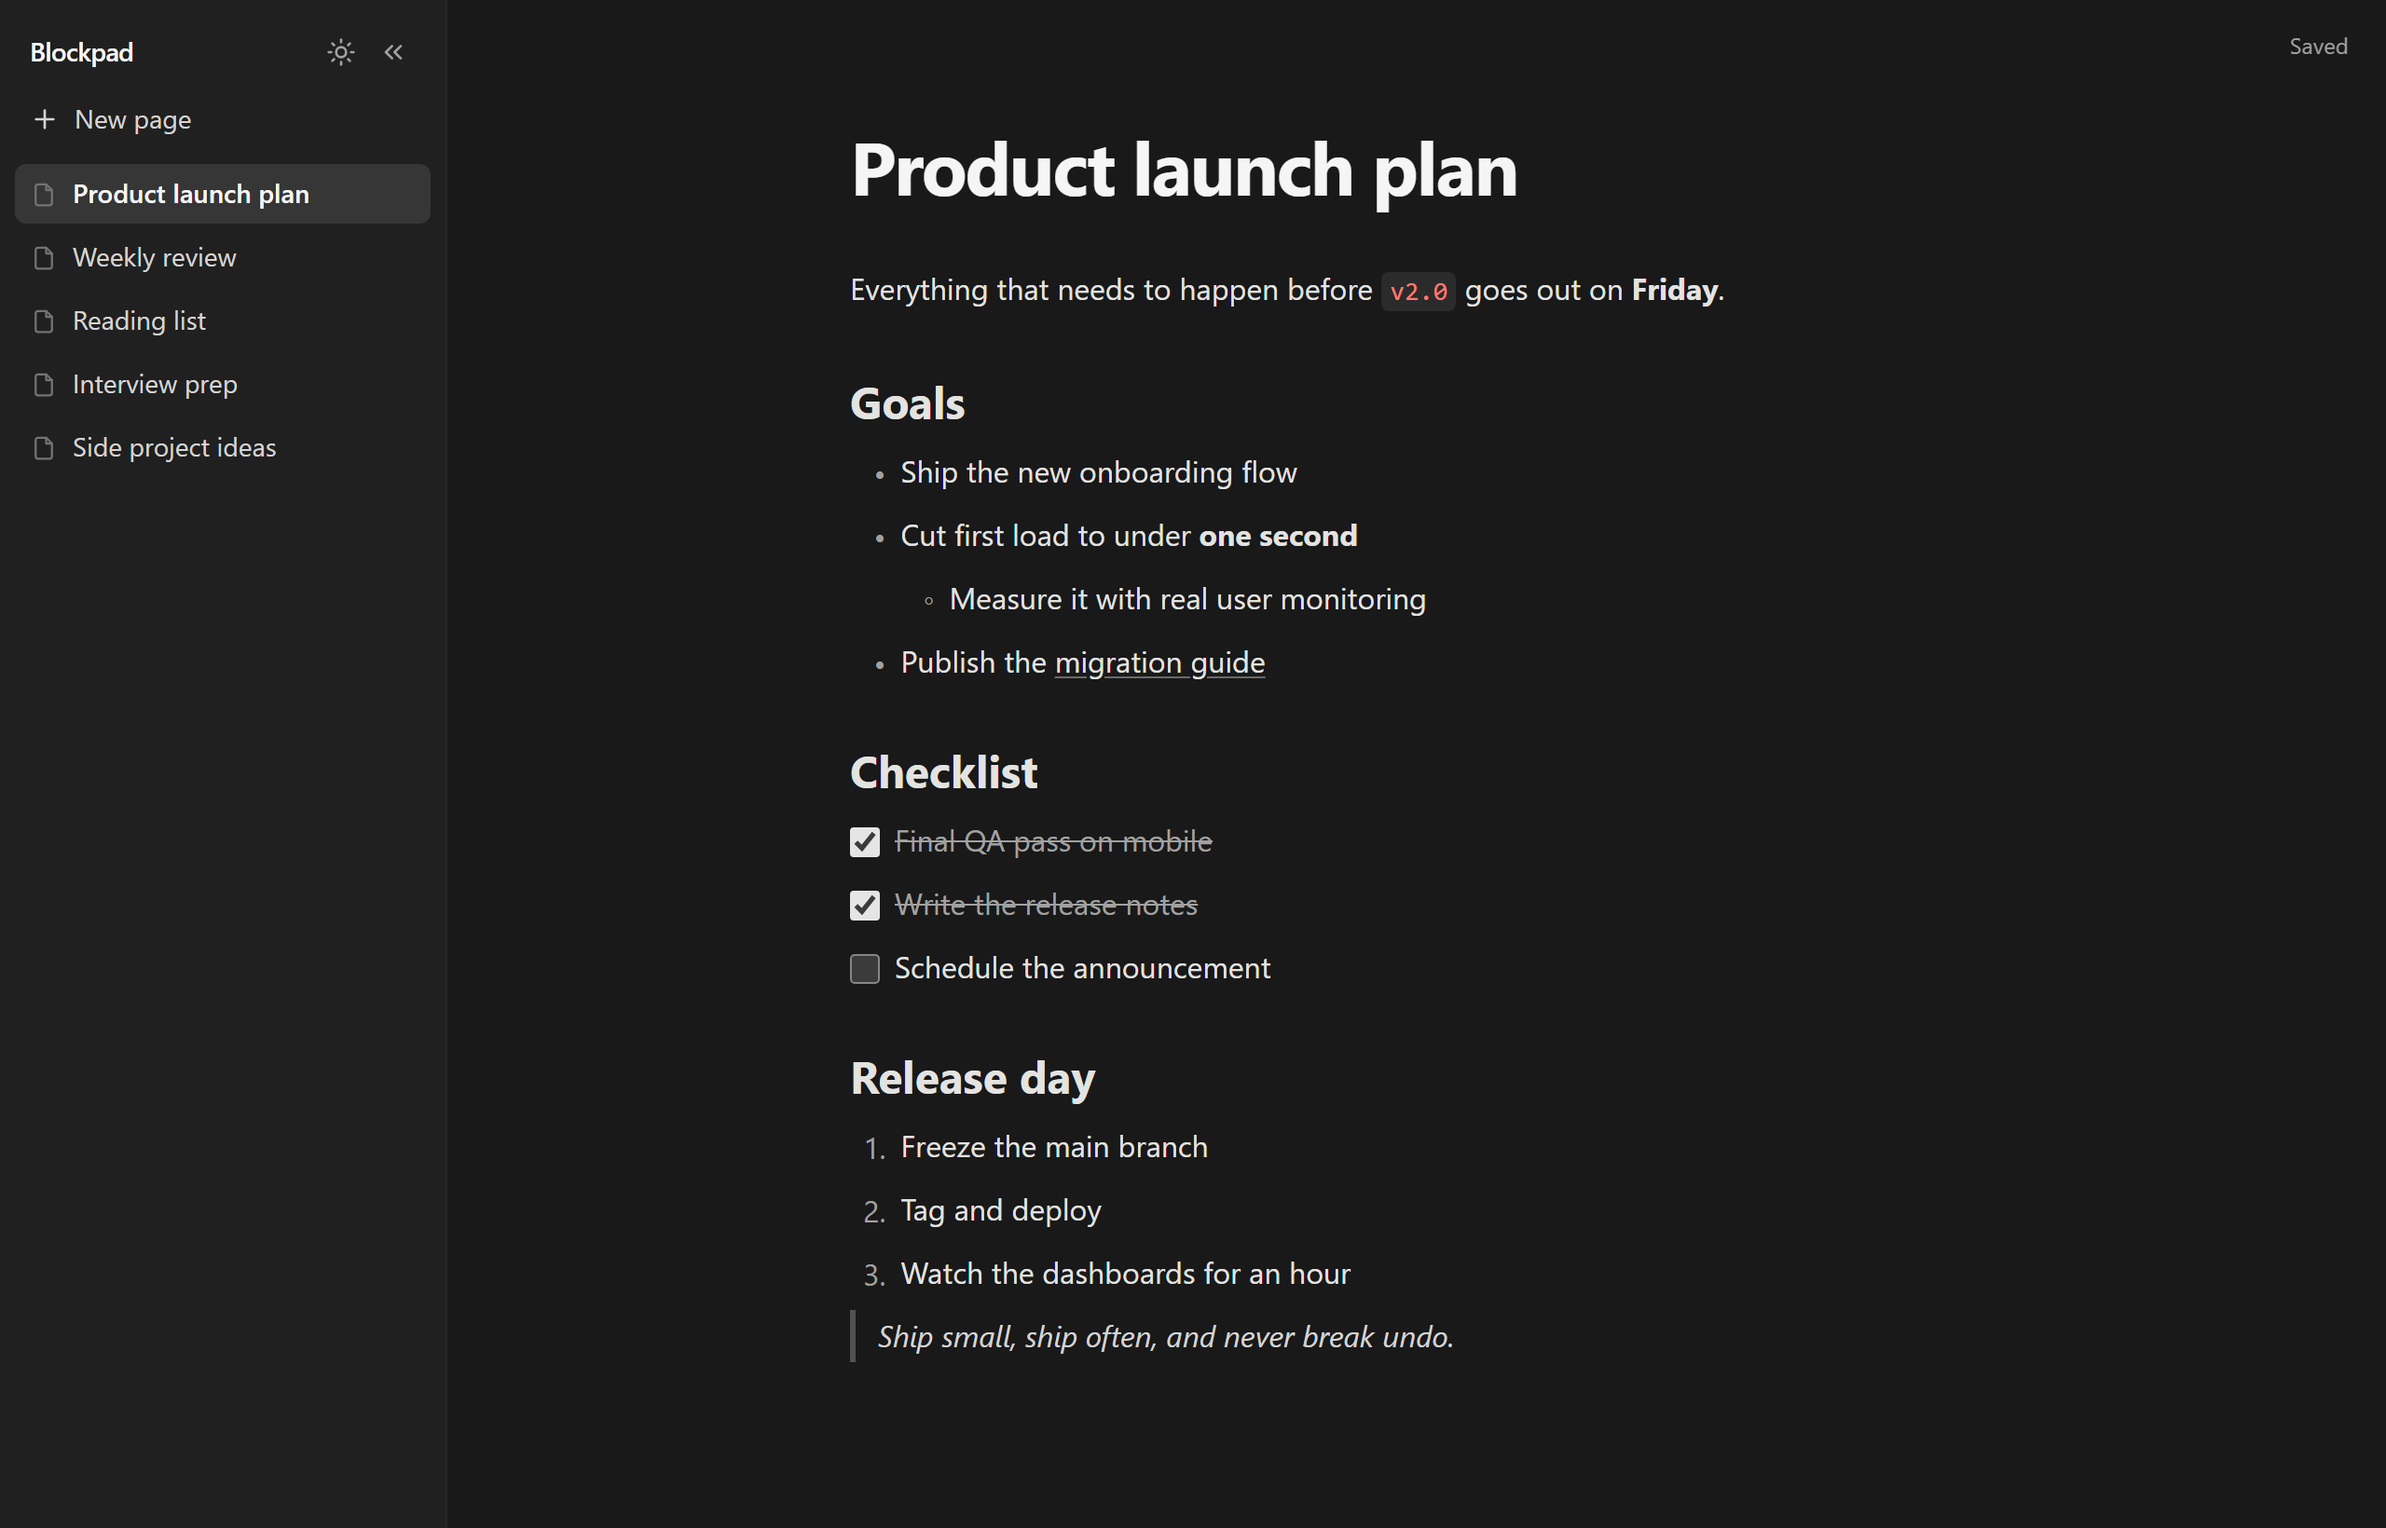
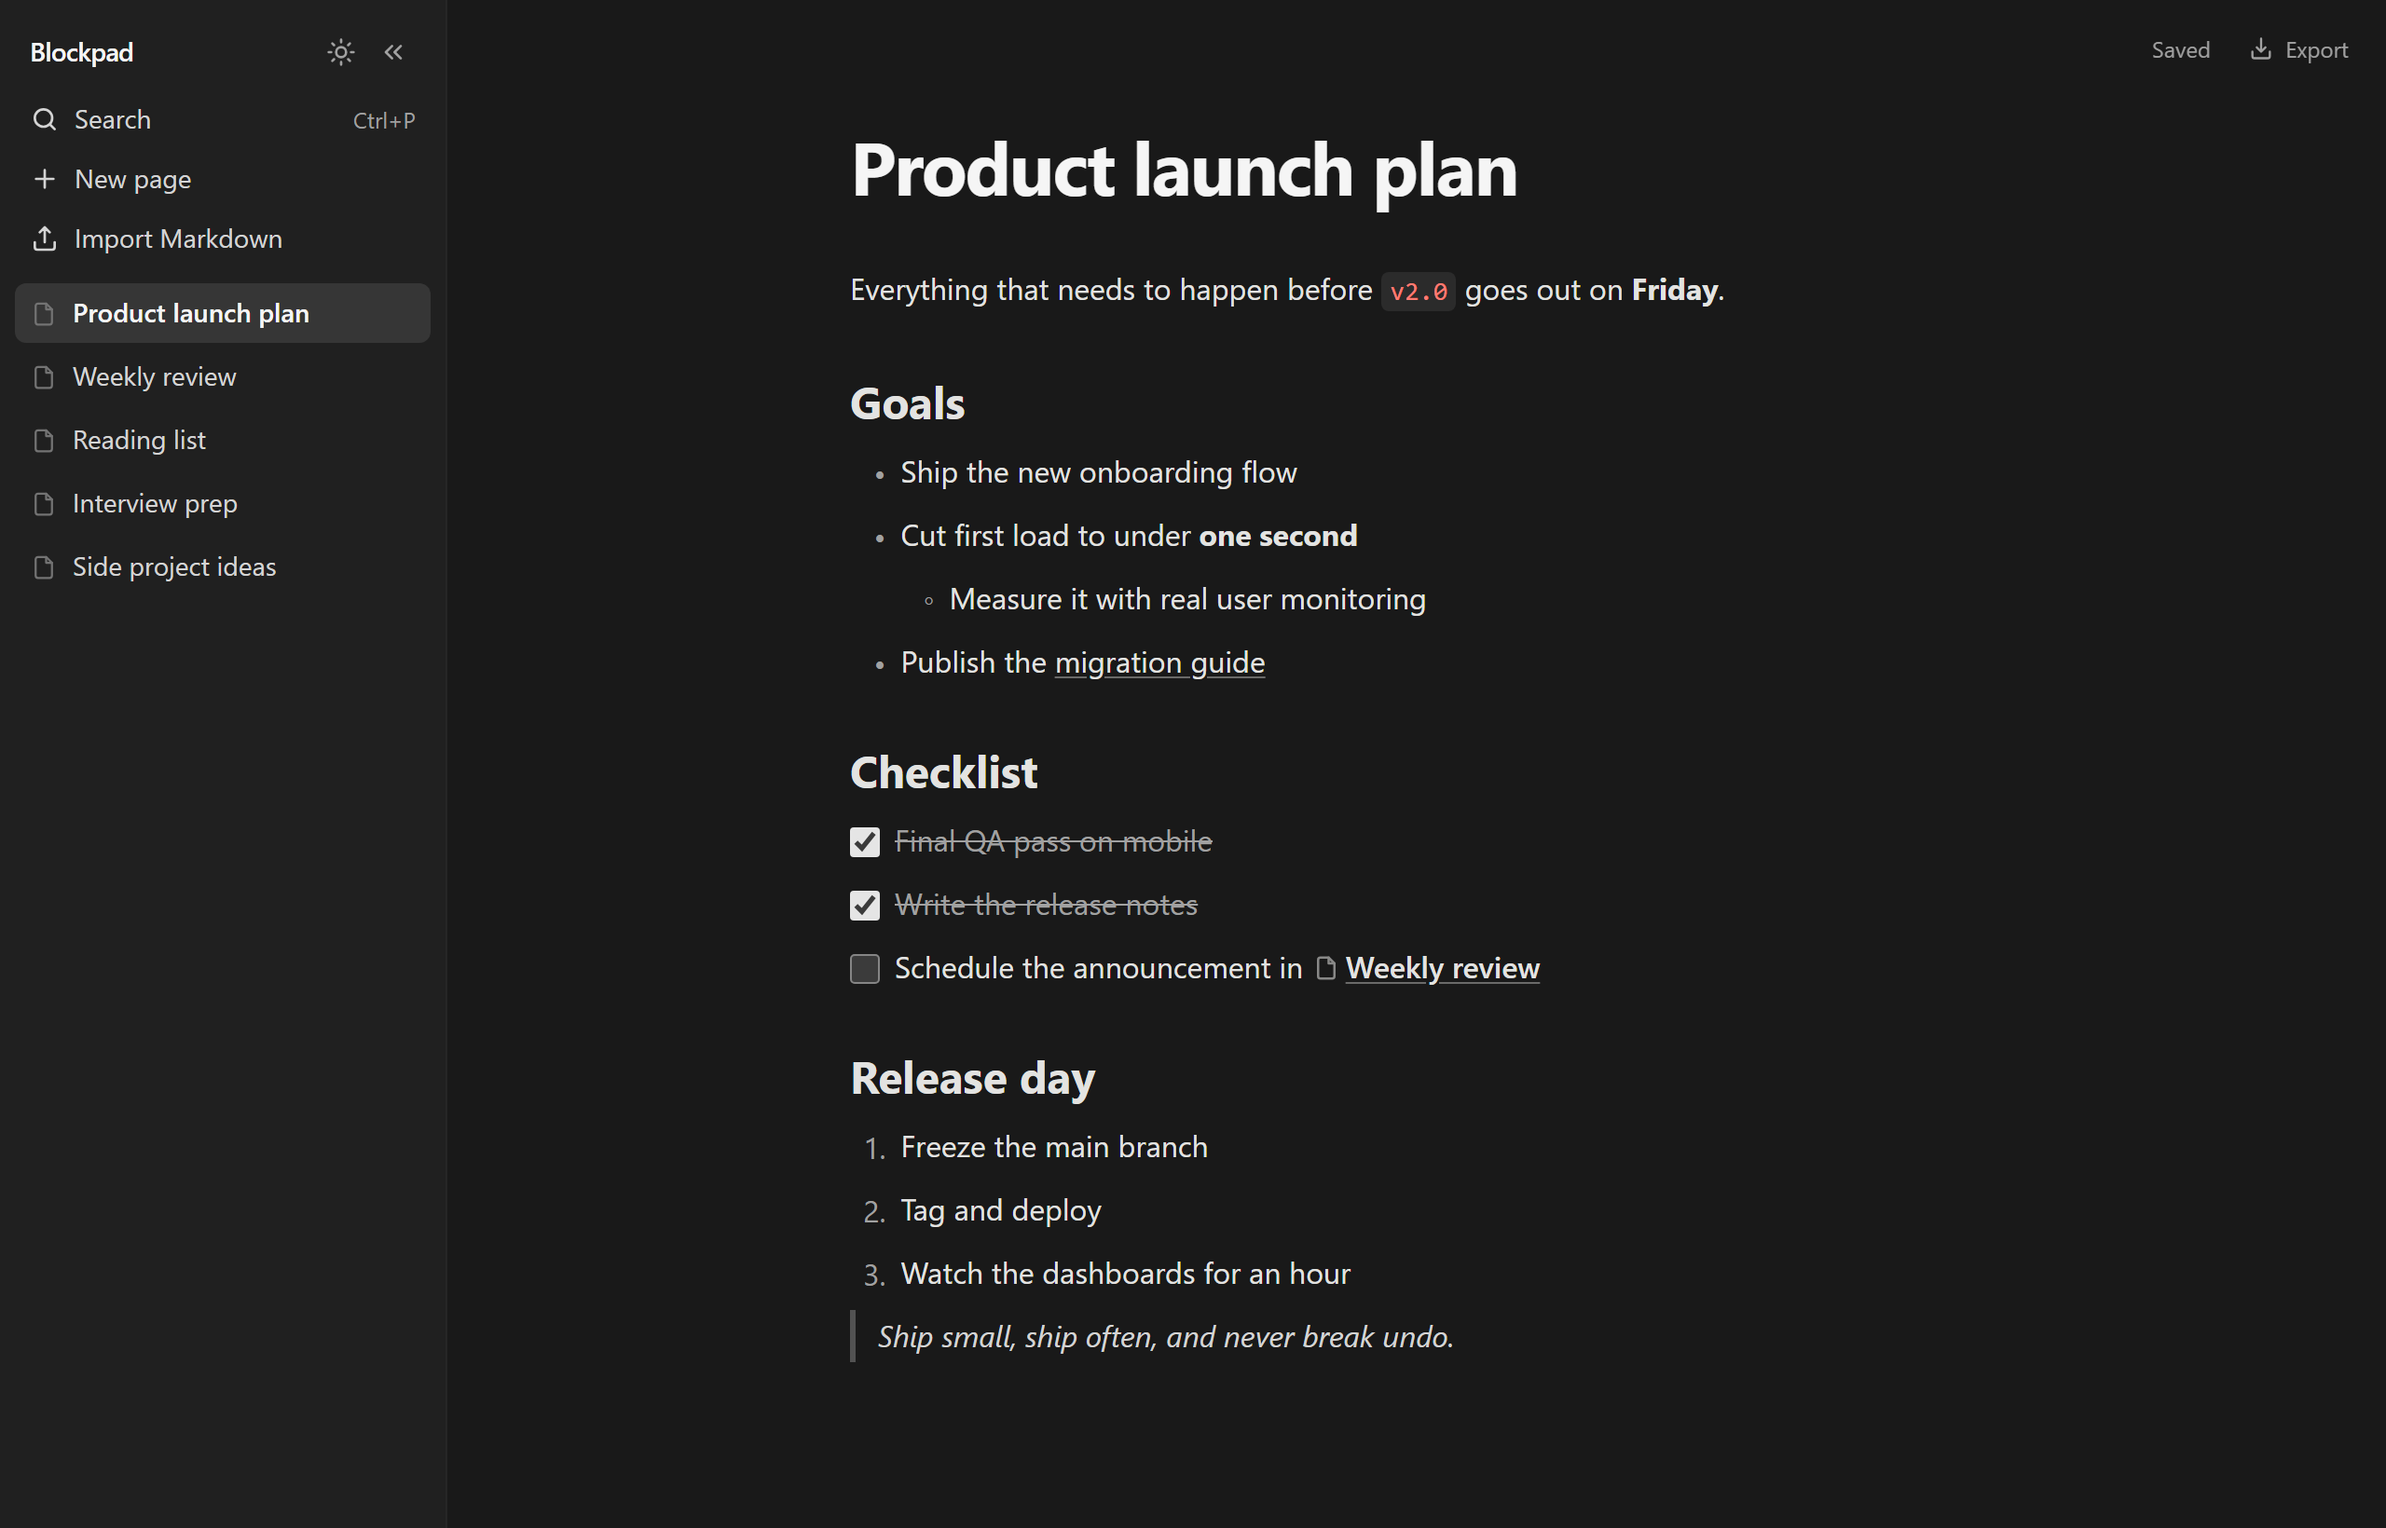
Document search, page links and Markdown in the README

Changed region(s): [[0.0312, 0.0622, 0.125, 0.3732], [0.5312, 0.622, 0.6562, 0.653]]

diff --git a/README.md b/README.md
@@ -11,6 +11,9 @@ Built from scratch with React and TypeScript — no editor framework. Cursor tra
 ## What it does
 
 - **Pages** — a sidebar of documents. Create, switch and delete them; each page keeps its own undo history.
+- **Quick search** — `Ctrl+P` searches every page's title and text, highlights the matches, and opens the result with the cursor on the matching word.
+- **Page links and backlinks** — type `[[` to link another page, or create one on the spot. Links follow renames, turn back into text when their page is deleted, and every page lists the places that link to it.
+- **Markdown in and out** — export a page as a `.md` file, or import files by picking or dragging them in. Nested lists, to-dos, formatting and `[[links]]` survive the round trip.
 - **Slash menu** — type `/` to insert or convert a block: text, three heading levels, bulleted, numbered and to-do lists, quote, divider.
 - **Formatting toolbar** — select text for bold, italic, inline code and links. Unsafe addresses such as `javascript:` links are refused.
 - **Markdown shortcuts** — `# ` becomes a heading, `- ` a bullet, `1. ` a numbered item, `> ` a quote, `[] ` a to-do. Leading spaces become indentation.
@@ -28,6 +31,8 @@ Built from scratch with React and TypeScript — no editor framework. Cursor tra
   <img src="docs/toolbar.png" alt="The formatting toolbar above selected text" width="49%">
 </p>
 
+![Quick search listing matches from every page, with the searched word highlighted](docs/search.png)
+
 ![The same page in dark mode](docs/editor-dark.png)
 
 ### Keyboard
@@ -35,6 +40,9 @@ Built from scratch with React and TypeScript — no editor framework. Cursor tra
 | Keys | Action |
 | --- | --- |
 | `/` | Open the block menu |
+| `[[` | Link another page |
+| `Ctrl/Cmd + Enter` beside a link | Open the linked page |
+| `Ctrl/Cmd + P` | Search all pages |
 | `Enter` | Split the block at the cursor; on an empty list item, leave the list |
 | `Backspace` at line start | Turn a styled block back into text, or merge into the line above |
 | `Delete` at line end | Pull the next line up |
@@ -57,6 +65,10 @@ Built from scratch with React and TypeScript — no editor framework. Cursor tra
 
 **Cursor translation.** Browsers report the cursor as a DOM node plus an offset inside it. The model wants a single character offset within a block. `src/editor/caret.ts` converts between the two in both directions, which is what lets a merge land the cursor exactly at the seam.
 
+**Links are islands.** A page link is a formatted run of text that carries a page id instead of a URL, rendered as a non-editable element — so the browser deletes it whole and never lets typing land inside it. Its text is the page's title, refreshed from the page list whenever a page opens.
+
+**Markdown both ways, as pure functions.** Export and import live in the model, with no DOM. A round-trip test exports a page containing every block type and mark, imports the result, and expects the same page back.
+
 **Storage.** Each page is saved under its own key alongside a small index of page titles, so typing in one page never rewrites the others. Notes written before pages existed are migrated into the first page on load.
 
 ### Problems worth knowing about
@@ -69,6 +81,8 @@ Most bugs in this project were timing and lifecycle problems between React and t
 - **Closing a tab never unmounts React.** The close-tab save wrote the document model, but text typed in the last half second still existed only in the page — so a quick close or reload lost it. Leaving now commits every block straight from the DOM before saving.
 - **A merge reads its neighbour too.** Delete at the end of a line committed the current line but read the next one from a model that hadn't seen its latest typing — so it merged in an empty line and then removed it, silently deleting text.
 - **Pasted HTML lies.** Google Docs wraps everything you copy in `<b style="font-weight:normal">`. A parser that trusts tags turns every paste bold.
+- **Focus is not the cursor.** Closing the search dialog handed focus back to the line you were on, but `focus()` on editable text puts the cursor at its start — so the next thing you typed landed in the wrong place. The dialog now saves and restores the exact selection.
+- **A cursor can sit where typing is impossible.** Right after a page link, the browser happily places the cursor inside the link's non-editable text. Cursor placement now snaps to just before or after a link.
 
 ## Running it
 
@@ -81,7 +95,7 @@ npm test         # unit tests
 npm run build    # production build
 ```
 
-Unit tests cover the document model: text slicing and formatting marks, the Enter, Backspace and Delete rules, pasting several lines, indentation limits, the markdown shortcut matcher and the page list.
+Unit tests cover the document model: text slicing and formatting marks, the Enter, Backspace and Delete rules, pasting several lines, indentation limits, the markdown shortcut matcher, the page list, search ranking, page links and backlinks, and Markdown import and export.
 
 ## Stack
 
